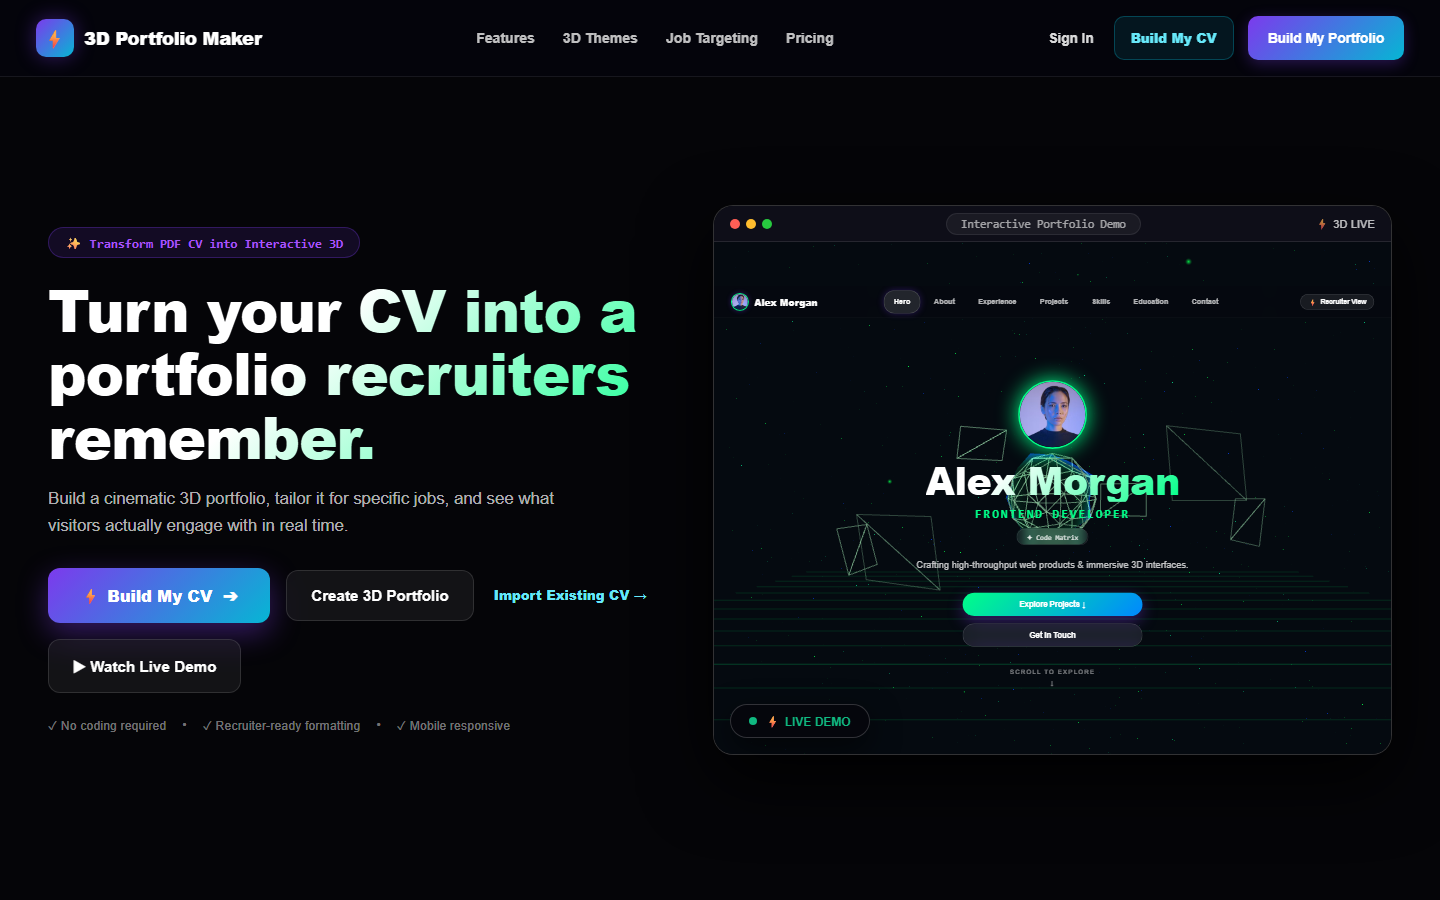
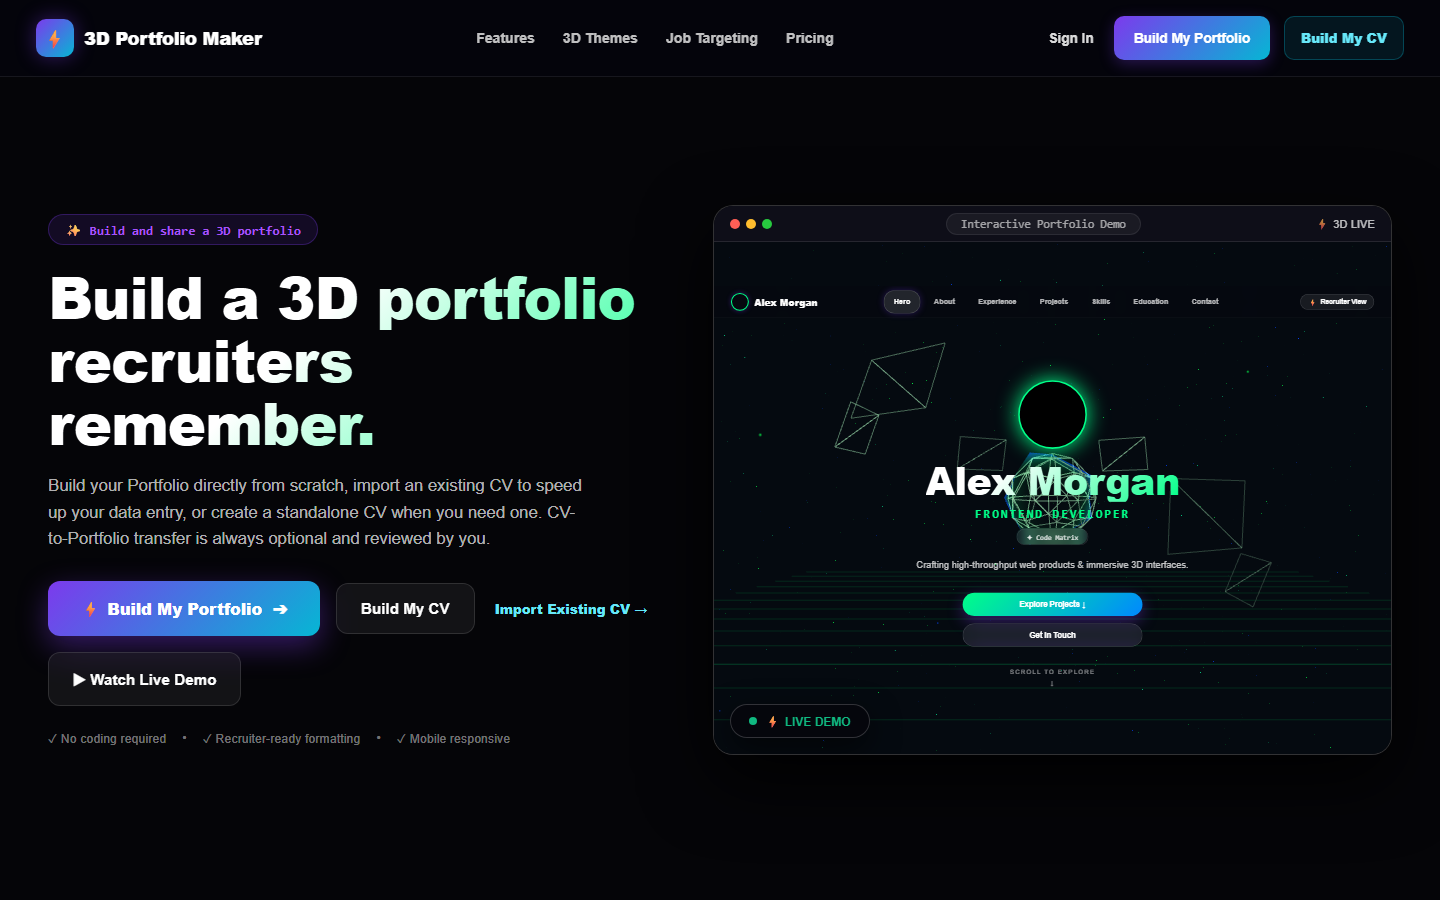
fix: make Home portfolio-first

diff --git a/src/ui/LandingPage.js b/src/ui/LandingPage.js
@@ -117,24 +117,24 @@ export async function renderLandingPage(container) {
 
       <div id="landing-auth-actions" style="display: flex; align-items: center; gap: 14px;">
         ${careerStudioEnabled && isAuthenticated ? `
-          <a href="/cv/new" style="
-            padding: 10px 16px; min-height: 44px; display: inline-flex; align-items: center; background: rgba(6,182,212,.1); border: 1px solid rgba(6,182,212,.3); border-radius: 10px;
-            color: #67e8f9; font-size: 0.82rem; font-weight: 800; text-decoration: none;
-          ">Build My CV</a>
           <a href="/studio" style="
             padding: 10px 20px; min-height: 44px; display: inline-flex; align-items: center; background: linear-gradient(135deg, #7c3aed, #06b6d4); border-radius: 10px;
             color: #fff; font-size: 0.85rem; font-weight: 700; text-decoration: none; box-shadow: 0 4px 15px rgba(124,58,237,0.3);
           ">⚡ Open Studio</a>
-        ` : careerStudioEnabled ? `
-          <a href="/login" style="color: rgba(255,255,255,0.85); min-height: 44px; display: inline-flex; align-items: center; font-size: 0.85rem; font-weight: 600; text-decoration: none; margin-right: 6px;">Sign In</a>
-          <a href="${careerPaths.buildCV}" style="
+          <a href="/cv/new" style="
             padding: 10px 16px; min-height: 44px; display: inline-flex; align-items: center; background: rgba(6,182,212,.1); border: 1px solid rgba(6,182,212,.3); border-radius: 10px;
             color: #67e8f9; font-size: 0.82rem; font-weight: 800; text-decoration: none;
           ">Build My CV</a>
+        ` : careerStudioEnabled ? `
+          <a href="/login" style="color: rgba(255,255,255,0.85); min-height: 44px; display: inline-flex; align-items: center; font-size: 0.85rem; font-weight: 600; text-decoration: none; margin-right: 6px;">Sign In</a>
           <a href="/login?next=%2Fstart" style="
             padding: 10px 20px; min-height: 44px; display: inline-flex; align-items: center; background: linear-gradient(135deg, #7c3aed, #06b6d4); border-radius: 10px;
             color: #fff; font-size: 0.85rem; font-weight: 700; text-decoration: none; box-shadow: 0 4px 15px rgba(124,58,237,0.3);
           ">Build My Portfolio</a>
+          <a href="${careerPaths.buildCV}" style="
+            padding: 10px 16px; min-height: 44px; display: inline-flex; align-items: center; background: rgba(6,182,212,.1); border: 1px solid rgba(6,182,212,.3); border-radius: 10px;
+            color: #67e8f9; font-size: 0.82rem; font-weight: 800; text-decoration: none;
+          ">Build My CV</a>
         ` : `
           <a href="/login" style="color: rgba(255,255,255,0.85); min-height: 44px; display: inline-flex; align-items: center; font-size: 0.85rem; font-weight: 600; text-decoration: none; margin-right: 6px;">Sign In</a>
           <a href="/login?next=%2Fstart" style="
@@ -160,7 +160,7 @@ export async function renderLandingPage(container) {
             background: rgba(124,58,237,0.12); border: 1px solid rgba(124,58,237,0.3); color: #a855f7;
             font-size: 0.8rem; font-weight: 700; margin-bottom: 20px; font-family: 'JetBrains Mono', monospace;
           ">
-            <span>✨ Transform PDF CV into Interactive 3D</span>
+            <span>✨ Build and share a 3D portfolio</span>
           </div>
 
           <h1 style="
@@ -168,28 +168,28 @@ export async function renderLandingPage(container) {
             line-height: 1.1; margin-bottom: 18px; background: linear-gradient(135deg, #ffffff 40%, var(--primary, #a855f7) 100%);
             -webkit-background-clip: text; -webkit-text-fill-color: transparent; letter-spacing: -1px;
           ">
-            Turn your CV into a portfolio recruiters remember.
+            Build a 3D portfolio recruiters remember.
           </h1>
 
           <p style="font-size: 1.05rem; color: rgba(255,255,255,0.7); line-height: 1.6; max-width: 540px; margin-bottom: 28px;">
-            Build a cinematic 3D portfolio, tailor it for specific jobs, and see what visitors actually engage with in real time.
+            Build your Portfolio directly from scratch, import an existing CV to speed up your data entry, or create a standalone CV when you need one. CV-to-Portfolio transfer is always optional and reviewed by you.
           </p>
 
           <div style="display: flex; gap: 16px; align-items: center; flex-wrap: wrap; margin-bottom: 24px;">
-            <a href="${careerStudioEnabled ? careerPaths.buildCV : careerPaths.portfolio}" style="
+            <a data-career-hero data-career-cta="portfolio" href="${careerPaths.portfolio}" style="
               padding: 16px 32px; background: linear-gradient(135deg, #7c3aed, #06b6d4); border-radius: 12px;
               color: #fff; font-size: 1rem; font-weight: 800; text-decoration: none; box-shadow: 0 10px 30px rgba(124,58,237,0.4);
               transition: transform 0.2s; display: inline-flex; align-items: center; gap: 10px;
             " onmouseover="this.style.transform='translateY(-2px)'" onmouseout="this.style.transform='none'">
-              <span>⚡ ${careerStudioEnabled ? 'Build My CV' : (isAuthenticated ? 'Open Studio Workspace' : 'Build My Portfolio')}</span>
+              <span>⚡ Build My Portfolio</span>
               <span>➔</span>
             </a>
 
-            ${careerStudioEnabled ? `<a href="${careerPaths.portfolio}" style="
+            ${careerStudioEnabled ? `<a data-career-cta="cv" href="${careerPaths.buildCV}" style="
               padding: 16px 24px; background: rgba(255,255,255,0.06); border: 1px solid rgba(255,255,255,0.12);
               border-radius: 12px; color: #fff; font-size: 0.95rem; font-weight: 700; text-decoration: none;
               backdrop-filter: blur(10px); transition: background 0.2s;
-            ">Create 3D Portfolio</a><a href="${careerPaths.importCV}" style="padding: 10px 4px;color:#67e8f9;font-size:.82rem;font-weight:800;text-decoration:none;">Import Existing CV →</a>` : ''}
+            ">Build My CV</a><a data-career-cta="import" href="${careerPaths.importCV}" style="padding: 10px 4px;color:#67e8f9;font-size:.82rem;font-weight:800;text-decoration:none;">Import Existing CV →</a>` : ''}
 
             <a href="#hero-demo" style="
               padding: 16px 24px; background: rgba(255,255,255,0.06); border: 1px solid rgba(255,255,255,0.12);

diff --git a/docs/CAREER_STUDIO_LOCAL.md b/docs/CAREER_STUDIO_LOCAL.md
@@ -210,3 +210,12 @@ Local checks:
 npm run test:cv-quality
 npm run test:pr7a-browser
 ```
+
+## Portfolio-first Home hierarchy
+
+The Portfolio remains the primary product. Home uses `Build My Portfolio` as
+the main Hero CTA and preserves the existing `/start` onboarding path. `Build
+My CV` and `Import Existing CV` are secondary independent services; neither is
+required before creating a Portfolio, and the CV Builder does not require a
+Portfolio. Import remains private and review-first, while `Create Portfolio
+From My CV` remains an explicit Review/Diff action.
